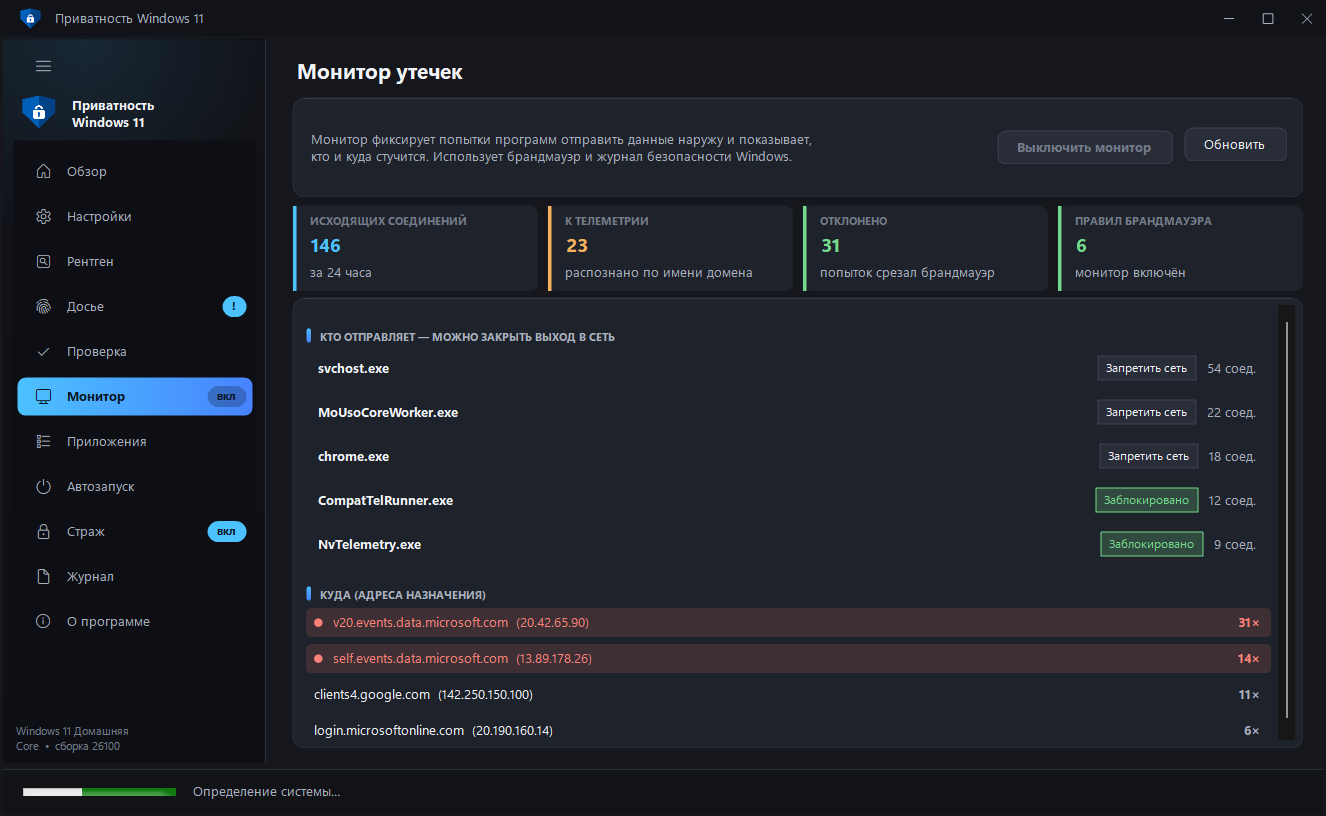
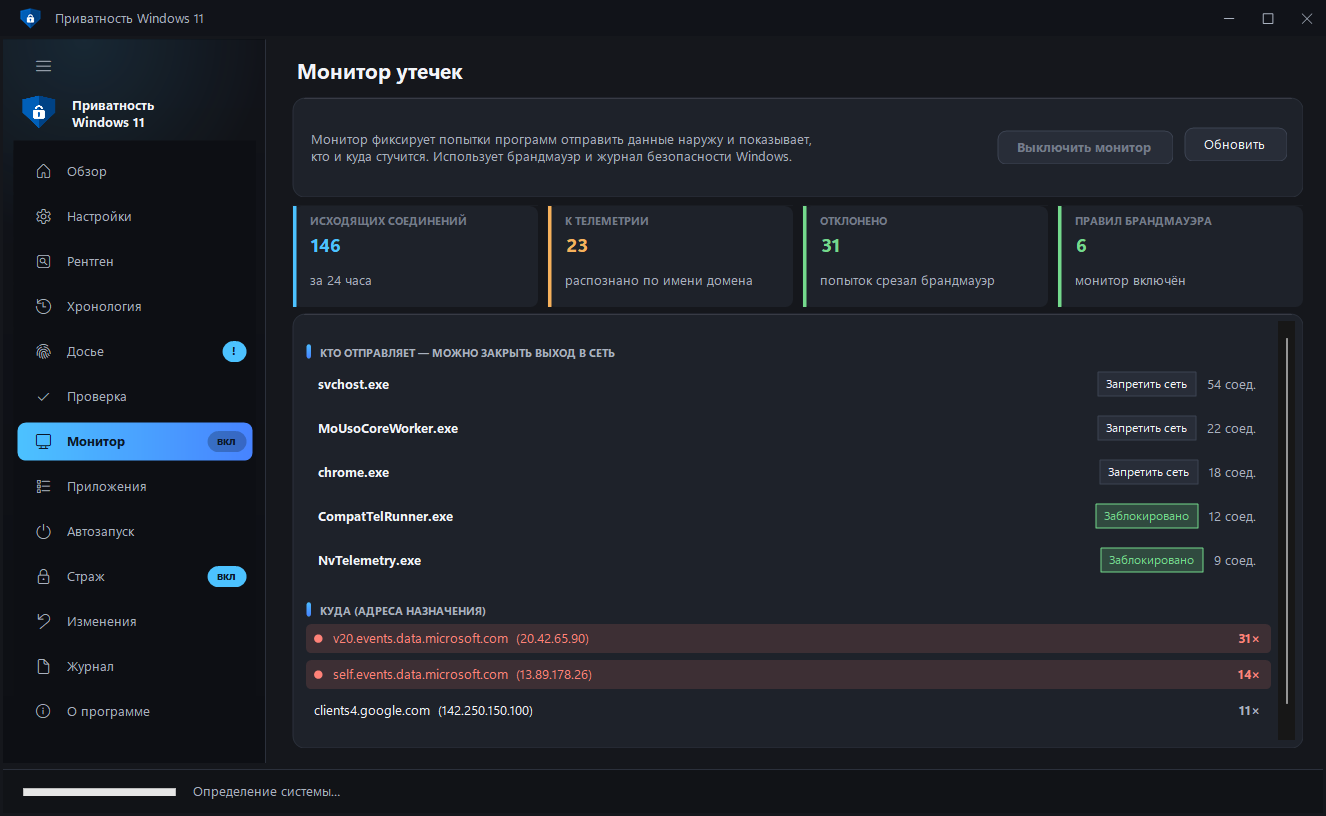
Плитка на «Проверке» больше не обрезается и не пропадает
Баг из вашего сообщения: у плитки «Обращения к телеметрии» показывался
только кусок — «1 не заблокировано (из кэ…». Сама карточка была цела
(проверил дампом геометрии: 875 из 877 пикселей), обрезался текст.

Причина: подпись плитки печаталась одной строкой с EndEllipsis, а на
четырёх плитках в ряд ширины 212 пикселей длинной подписи не хватает.
Теперь подпись переносится на две строки, а если и так не влезает —
печатается шрифтом поменьше (два шага, 0.85 и 0.72). Высота плиток
поднята: 6.0 по умолчанию и 6.6 на «Проверке», где полоса фиксированная.

По пути нашлась вторая половина той же беды: на окне 900 пикселей
четвёртая плитка не влезала в ряд и уезжала во второй, которого в полосе
фиксированной высоты просто не видно — плитка исчезала целиком. У TileGrid
появился режим SingleRow: плитки сужаются, но остаются на месте.

Заодно сокращена самая словесная подпись: «1 проходит, по кэшу DNS»
вместо «1 не заблокировано (из кэша DNS)».

Чтобы такое ловилось само: в тестовой сборке появился WIN11_TEST_DUMP=1 —
печать дерева с координатами и пометкой «ВЫЛЕЗ» у элементов, вышедших за
родителя. Сборка на GitHub теперь гоняет страницы с этим ключом и падает,
если что-то вылезло.

diff --git a/MainForm.cs b/MainForm.cs
@@ -1931,7 +1931,8 @@ namespace Win11Privacy
             rightTop.Controls.Add(_auditHint);
             _auditTiles = new TileGrid();
             _auditTiles.Dock = DockStyle.Fill; _auditTiles.Font = Font; _auditTiles.MaxCols = 4;
-            _auditTiles.MinTileWidthU = 11.5F; _auditTiles.TileHeightU = 5.6F;
+            _auditTiles.MinTileWidthU = 11.5F; _auditTiles.TileHeightU = 6.6F;
+            _auditTiles.SingleRow = true;   // полоса одна: плитки сужаются, но не пропадают
             rightTop.Controls.Add(_auditTiles);
             _auditTiles.BringToFront();
             top.Controls.Add(rightTop, 1, 0);
@@ -3554,7 +3555,7 @@ namespace Win11Privacy
             if (buf != null) { string mb = Json.GetStr(buf, "mb"); _auditTiles.Controls.Add(Tile(L.T("Буфер телеметрии"), (mb == "-1" ? L.T("нет") : mb + L.T(" МБ")), Json.GetInt(buf, "files") + L.T(" файлов ждут отправки"), Theme.Accent)); }
             List<object> dns = Json.GetArr(d, "dns");
             int leaked = 0; foreach (object o in dns) if (!Json.GetBool(Json.Obj(o), "blocked")) leaked++;
-            _auditTiles.Controls.Add(Tile(L.T("Обращения к телеметрии"), dns.Count.ToString(), leaked + L.T(" не заблокировано (из кэша DNS)"), leaked == 0 ? Theme.Ok : Theme.Err));
+            _auditTiles.Controls.Add(Tile(L.T("Обращения к телеметрии"), dns.Count.ToString(), leaked + L.T(" проходит, по кэшу DNS"), leaked == 0 ? Theme.Ok : Theme.Err));
 
             _auditGroups.Controls.Clear();
             RenderProof();
@@ -3992,6 +3993,11 @@ namespace Win11Privacy
                 if (shot != null) { try { using (Bitmap bmp = new Bitmap(f.Width, f.Height)) { f.DrawToBitmap(bmp, new Rectangle(0, 0, f.Width, f.Height)); bmp.Save(shot); Console.WriteLine("SHOT " + shot); } } catch (Exception ex) { Console.WriteLine("SHOTERR " + ex.Message); } }
                 // сборке важно не только «окно открылось», но и что на странице что-то есть
                 Console.WriteLine("PAGE " + page + " controls=" + CountControls(f.PageOf(page)));
+                if (Environment.GetEnvironmentVariable("WIN11_TEST_DUMP") == "1")
+                {
+                    Console.WriteLine("CLIENT " + f.ClientSize.Width + "x" + f.ClientSize.Height);
+                    DumpBounds(f.PageOf(page), 0);
+                }
                 Console.WriteLine("UITEST ok"); f.Close();
             };
             f.Shown += delegate {
@@ -4124,6 +4130,19 @@ namespace Win11Privacy
         }
 
 #if UITEST
+        // Печатает дерево с координатами: сразу видно, кто вылез за родителя
+        private static void DumpBounds(Control c, int depth)
+        {
+            if (c == null || depth > 4) return;
+            foreach (Control cc in c.Controls)
+            {
+                string over = (cc.Right > c.ClientSize.Width) ? "  <== ВЫЛЕЗ за " + c.ClientSize.Width : "";
+                Console.WriteLine(new string(' ', depth * 2) + cc.GetType().Name +
+                    " [" + cc.Left + "," + cc.Top + " " + cc.Width + "x" + cc.Height + "]" + over);
+                DumpBounds(cc, depth + 1);
+            }
+        }
+
         private static int CountControls(Control c)
         {
             if (c == null) return 0;

diff --git a/Ui.cs b/Ui.cs
@@ -941,9 +941,33 @@ namespace Win11Privacy
                     new Rectangle((int)(u * 0.85F), (int)(u * 1.55F), Width - (int)(u * 1.4F), (int)(u * 2.2F)),
                     Accent, TextFormatFlags.Left | TextFormatFlags.Top | TextFormatFlags.EndEllipsis | TextFormatFlags.SingleLine);
             if (!string.IsNullOrEmpty(Sub))
-                TextRenderer.DrawText(g, Sub, Font,
-                    new Rectangle((int)(u * 0.9F), Height - (int)(u * 1.7F), Width - (int)(u * 1.5F), (int)(u * 1.6F)),
-                    Theme.TextDim, TextFormatFlags.Left | TextFormatFlags.Top | TextFormatFlags.EndEllipsis | TextFormatFlags.SingleLine);
+            {
+                // Подпись переносится на вторую строку, а если и так не влезает —
+                // печатается шрифтом поменьше. Раньше она была в одну строку с
+                // обрезкой и на узкой плитке рвалась на полуслове:
+                // «1 не заблокировано (из кэ…».
+                int subL = (int)(u * 0.9F);
+                int subW = Math.Max(20, Width - (int)(u * 1.5F));
+                int subT = (int)(u * 3.9F);
+                int subH = Height - subT - (int)(u * 0.35F);
+                if (subH < u) { subT = Height - (int)(u * 1.7F); subH = (int)(u * 1.6F); }
+                Font sf = Font;
+                Font shrunk = null;
+                Size need = TextRenderer.MeasureText(g, Sub, sf, new Size(subW, 0),
+                                TextFormatFlags.WordBreak | TextFormatFlags.NoPadding);
+                foreach (float scale in new[] { 0.85F, 0.72F })
+                {
+                    if (need.Height <= subH || Font.Size * scale < 6.5F) break;
+                    if (shrunk != null) shrunk.Dispose();
+                    shrunk = new Font(Font.FontFamily, Font.Size * scale);
+                    sf = shrunk;
+                    need = TextRenderer.MeasureText(g, Sub, sf, new Size(subW, 0),
+                               TextFormatFlags.WordBreak | TextFormatFlags.NoPadding);
+                }
+                TextRenderer.DrawText(g, Sub, sf, new Rectangle(subL, subT, subW, subH), Theme.TextDim,
+                    TextFormatFlags.Left | TextFormatFlags.Top | TextFormatFlags.WordBreak | TextFormatFlags.EndEllipsis);
+                if (shrunk != null) shrunk.Dispose();
+            }
         }
     }
 

diff --git a/Ui4.cs b/Ui4.cs
@@ -180,9 +180,13 @@ namespace Win11Privacy
     internal class TileGrid : Panel
     {
         public float MinTileWidthU = 13.5F;   // минимальная ширина плитки, в высотах шрифта
-        public float TileHeightU = 5.1F;      // высота плитки
+        public float TileHeightU = 6.0F;      // высота плитки: хватает на две строки подписи
         public float GapU = 0.55F;            // зазор
         public int MaxCols = 4;
+        // Полоса фиксированной высоты вмещает только один ряд: если плитки
+        // не влезли по ширине, они должны сузиться, а не уехать во второй ряд,
+        // где их просто не видно.
+        public bool SingleRow;
         private bool _busy;
 
         public TileGrid()
@@ -198,6 +202,7 @@ namespace Win11Privacy
 
         private int CalcCols(int width, int count)
         {
+            if (SingleRow) return Math.Max(1, count);
             int u = Font.Height;
             int gap = (int)(u * GapU);
             int minW = Math.Max(40, (int)(u * MinTileWidthU));

diff --git a/Lang.cs b/Lang.cs
@@ -40,7 +40,7 @@ namespace Win11Privacy
 
         private static void Build()
         {
-            _map = new Dictionary<string, string>(933, StringComparer.Ordinal);
+            _map = new Dictionary<string, string>(934, StringComparer.Ordinal);
             _map[" ч"] = " h";
             _map[" МБ"] = " MB";
             _map[" ч "] = " h ";
@@ -974,6 +974,7 @@ namespace Win11Privacy
             _map["Примеры"] = "Examples";
             _map["Дата"] = "Date";
             _map["Событие"] = "Event";
+            _map[" проходит, по кэшу DNS"] = " leaking, per DNS cache";
         }
     }
 }
